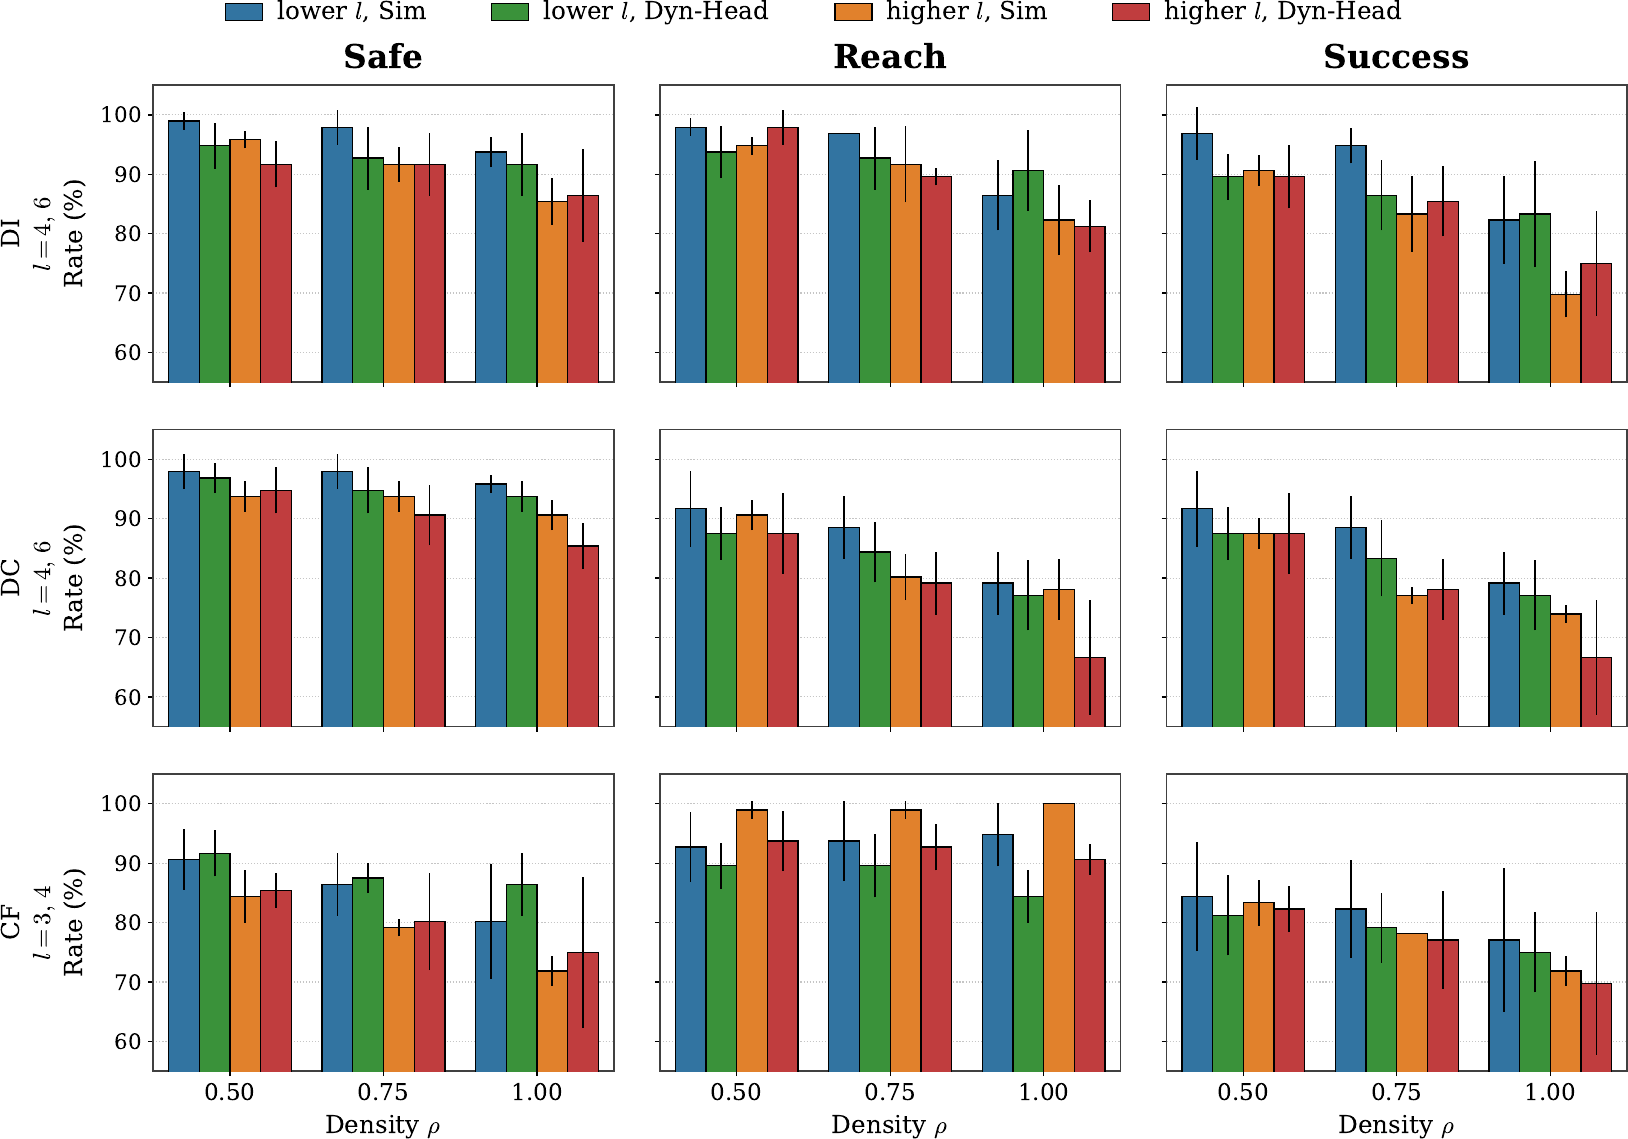
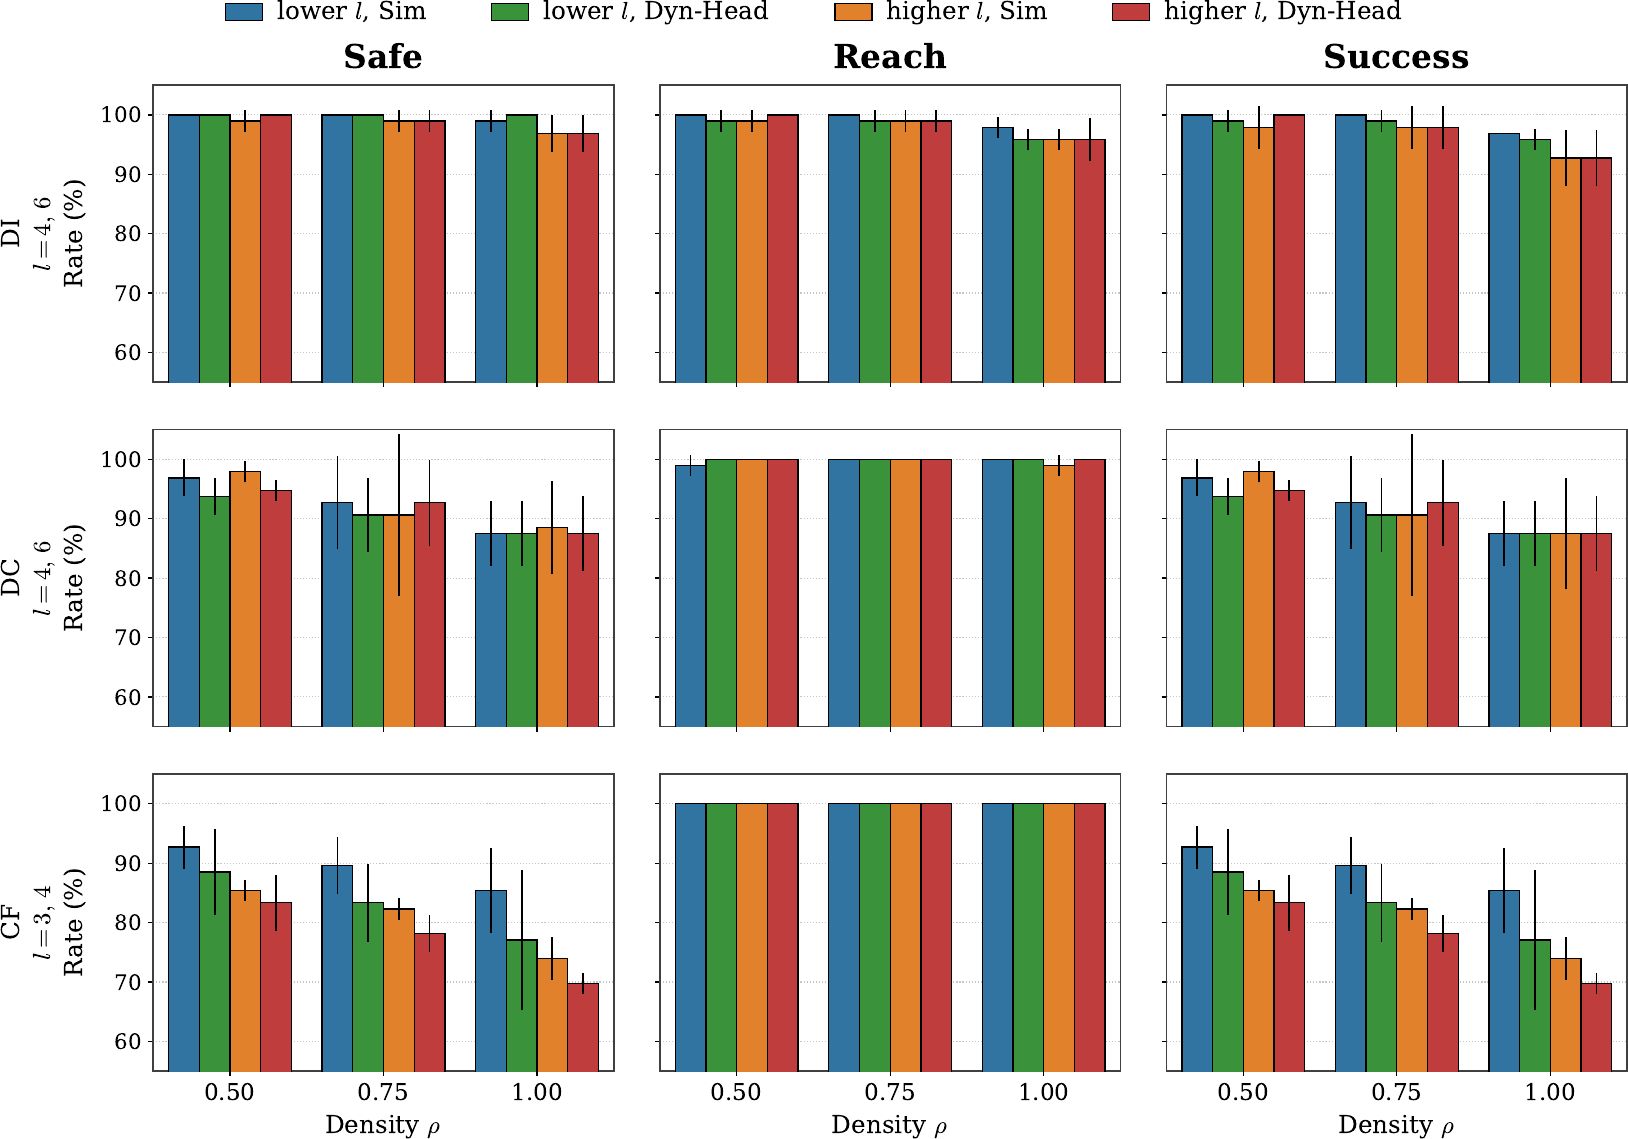
Update all results to match the revised paper
Table 1, the predictive-horizon ablation, the frozen-backbone ablation and
the robustness table all changed in the new PDF; Fig. 2 is re-rendered from
the new generalization runs. Tables 7 and 8 (dynamics-head RMSE) and Fig. 1
are unchanged.

Removes the tabulated generalization results: they were reconstructed from
the preliminary version, the camera-ready reports only Fig. 2, and the new
run CSVs do not carry the Sim/Dyn-Head split needed to rebuild them.

Prose corrected to match: inference speedup is now two to three orders of
magnitude, the horizon ablation improves safety 84.38% to 100.00%, and
process noise is sigma_p = 4*sigma, sigma_v = 0.5*sigma.

diff --git a/index.html b/index.html
@@ -368,7 +368,7 @@
           <br><br>
 
           <b>
-            Performance comparison in terms of safety rate (Safe), goal reaching rate (Reach), success rate (Success) and per-step computational time (Time). <b>Ours (Dyn-Head)</b> generates predictive rollouts with the learned dynamics head, while <b>Ours (Sim)</b> uses the true simulator during training. Among model-free methods, Ours (Dyn-Head) achieves the best balance between safety and goal-reaching with competitive inference time. Among model-based methods, Ours (Sim) matches MPC while reducing per-step inference time by over <b>three orders of magnitude</b>.
+            Performance comparison in terms of safety rate (Safe), goal reaching rate (Reach), success rate (Success) and per-step computational time (Time). <b>Ours (Dyn-Head)</b> generates predictive rollouts with the learned dynamics head, while <b>Ours (Sim)</b> uses the true simulator during training. Among model-free methods, Ours (Dyn-Head) achieves the best balance between safety and goal-reaching with competitive inference time. Among model-based methods, Ours (Sim) matches or exceeds MPC's safety rate across all environments while reducing per-step computation time by <b>two to three orders of magnitude</b>.
           </b>
 
           <div class="table-scroll">
@@ -389,83 +389,59 @@
                 <th>Ours (Sim)</th>
               </tr>
             </thead>
-            <tbody>
+                        <tbody>
               <tr>
                 <td rowspan="4"><b>DI</b></td>
                 <td>Safe</td>
-                <td>67.71 &plusmn; 2.95</td><td>76.04 &plusmn; 3.90</td><td>72.9 &plusmn; 8.20</td>
-                <td><b>95.83 &plusmn; 1.47</b></td>
-                <td><b>98.96 &plusmn; 1.47</b></td><td><b>98.96 &plusmn; 1.47</b></td>
+                <td>67.71 &plusmn; 2.95</td><td>76.04 &plusmn; 3.90</td><td>72.9 &plusmn; 8.20</td><td><b>100.00 &plusmn; 0.00</b></td><td>98.96 &plusmn; 1.47</td><td><b>100.00 &plusmn; 0.00</b></td>
               </tr>
               <tr>
                 <td>Reach</td>
-                <td>67.71 &plusmn; 2.95</td><td>26.04 &plusmn; 7.80</td><td><b>94.8 &plusmn; 1.50</b></td>
-                <td>89.58 &plusmn; 6.42</td>
-                <td><b>96.88 &plusmn; 2.55</b></td><td>87.50 &plusmn; 4.42</td>
+                <td>67.71 &plusmn; 2.95</td><td>26.04 &plusmn; 7.80</td><td>94.8 &plusmn; 1.50</td><td><b>97.92 &plusmn; 3.61</b></td><td>96.86 &plusmn; 2.55</td><td><b>97.92 &plusmn; 3.61</b></td>
               </tr>
               <tr>
                 <td>Success</td>
-                <td>67.71 &plusmn; 2.95</td><td>21.88 &plusmn; 5.10</td><td>68.8 &plusmn; 6.80</td>
-                <td><b>88.54 &plusmn; 6.42</b></td>
-                <td><b>95.83 &plusmn; 1.47</b></td><td>86.46 &plusmn; 3.90</td>
+                <td>67.71 &plusmn; 2.95</td><td>21.88 &plusmn; 5.10</td><td>68.8 &plusmn; 6.80</td><td><b>97.92 &plusmn; 3.61</b></td><td>95.83 &plusmn; 1.47</td><td><b>97.92 &plusmn; 3.61</b></td>
               </tr>
               <tr>
                 <td>Time (&mu;s)</td>
-                <td>9.24 &plusmn; 0.36</td><td>&ndash;<sup>&dagger;</sup></td><td>6.63 &plusmn; 0.04</td>
-                <td><b>4.99 &plusmn; 0.02</b></td>
-                <td>8256 &plusmn; 900</td><td><b>4.96 &plusmn; 0.03</b></td>
+                <td>9.24 &plusmn; 0.36</td><td>&ndash;<sup>&dagger;</sup></td><td>6.63 &plusmn; 0.04</td><td><b>4.99 &plusmn; 0.02</b></td><td>8256 &plusmn; 900</td><td><b>4.96 &plusmn; 0.03</b></td>
               </tr>
 
               <tr>
                 <td rowspan="4"><b>DC</b></td>
                 <td>Safe</td>
-                <td>56.25 &plusmn; 5.10</td><td>70.83 &plusmn; 3.90</td><td>64.6 &plusmn; 13.10</td>
-                <td><b>95.83 &plusmn; 2.95</b></td>
-                <td><b>97.92 &plusmn; 1.47</b></td><td><b>97.92 &plusmn; 1.47</b></td>
+                <td>56.25 &plusmn; 5.10</td><td>70.83 &plusmn; 3.90</td><td>64.6 &plusmn; 13.10</td><td><b>97.92 &plusmn; 1.80</b></td><td><b>97.92 &plusmn; 1.47</b></td><td><b>97.92 &plusmn; 1.80</b></td>
               </tr>
               <tr>
                 <td>Reach</td>
-                <td>52.08 &plusmn; 3.90</td><td>2.08 &plusmn; 2.95</td><td>27.1 &plusmn; 3.90</td>
-                <td><b>92.71 &plusmn; 2.95</b></td>
-                <td><b>95.83 &plusmn; 1.47</b></td><td>93.75 &plusmn; 1.42</td>
+                <td>52.08 &plusmn; 3.90</td><td>2.08 &plusmn; 2.95</td><td>27.1 &plusmn; 3.90</td><td><b>95.83 &plusmn; 1.80</b></td><td><b>95.83 &plusmn; 1.47</b></td><td>94.79 &plusmn; 3.61</td>
               </tr>
               <tr>
                 <td>Success</td>
-                <td>52.08 &plusmn; 3.90</td><td>2.08 &plusmn; 2.95</td><td>21.9 &plusmn; 2.60</td>
-                <td><b>92.71 &plusmn; 2.95</b></td>
-                <td><b>94.79 &plusmn; 1.47</b></td><td>93.75 &plusmn; 4.42</td>
+                <td>52.08 &plusmn; 3.90</td><td>2.08 &plusmn; 2.95</td><td>21.9 &plusmn; 2.60</td><td><b>93.75 &plusmn; 0.00</b></td><td><b>94.79 &plusmn; 1.47</b></td><td>94.79 &plusmn; 3.61</td>
               </tr>
               <tr>
                 <td>Time (&mu;s)</td>
-                <td>9.90 &plusmn; 0.21</td><td>&ndash;<sup>&dagger;</sup></td><td>6.70 &plusmn; 0.02</td>
-                <td><b>4.79 &plusmn; 0.01</b></td>
-                <td>9280 &plusmn; 1262</td><td><b>4.82 &plusmn; 0.04</b></td>
+                <td>9.90 &plusmn; 0.21</td><td>&ndash;<sup>&dagger;</sup></td><td>6.70 &plusmn; 0.02</td><td><b>4.79 &plusmn; 0.01</b></td><td>9280 &plusmn; 1262</td><td><b>4.82 &plusmn; 0.04</b></td>
               </tr>
 
               <tr>
                 <td rowspan="4"><b>CF</b></td>
                 <td>Safe</td>
-                <td>88.54 &plusmn; 2.95</td><td><b>98.96 &plusmn; 1.80</b></td><td>91.7 &plusmn; 5.90</td>
-                <td>96.88 &plusmn; 2.55</td>
-                <td><b>93.75 &plusmn; 0.00</b></td><td><b>93.75 &plusmn; 2.55</b></td>
+                <td>88.54 &plusmn; 2.95</td><td><b>98.96 &plusmn; 1.80</b></td><td>91.7 &plusmn; 5.90</td><td>94.79 &plusmn; 3.61</td><td>93.75 &plusmn; 0.00</td><td><b>95.83 &plusmn; 4.77</b></td>
               </tr>
               <tr>
                 <td>Reach</td>
-                <td>85.42 &plusmn; 3.90</td><td>0.00 &plusmn; 0.00</td><td><b>96.9 &plusmn; 2.60</b></td>
-                <td>92.71 &plusmn; 3.90</td>
-                <td><b>100.00 &plusmn; 0.00</b></td><td>94.79 &plusmn; 5.31</td>
+                <td>85.42 &plusmn; 3.90</td><td>0.00 &plusmn; 0.00</td><td><b>96.9 &plusmn; 2.60</b></td><td>94.79 &plusmn; 6.51</td><td><b>100.00 &plusmn; 0.00</b></td><td>93.75 &plusmn; 6.25</td>
               </tr>
               <tr>
                 <td>Success</td>
-                <td>85.42 &plusmn; 3.90</td><td>0.00 &plusmn; 0.00</td><td>88.5 &plusmn; 3.90</td>
-                <td><b>89.58 &plusmn; 8.20</b></td>
-                <td><b>93.75 &plusmn; 0.00</b></td><td>88.54 &plusmn; 7.37</td>
+                <td>85.42 &plusmn; 3.90</td><td>0.00 &plusmn; 0.00</td><td>88.5 &plusmn; 3.90</td><td><b>89.58 &plusmn; 10.05</b></td><td>93.75 &plusmn; 0.00</td><td><b>89.58 &plusmn; 10.05</b></td>
               </tr>
               <tr>
                 <td>Time (&mu;s)</td>
-                <td>9.51 &plusmn; 0.38</td><td>&ndash;<sup>&dagger;</sup></td><td>8.63 &plusmn; 0.03</td>
-                <td><b>5.12 &plusmn; 0.04</b></td>
-                <td>2773 &plusmn; 103</td><td><b>5.08 &plusmn; 0.03</b></td>
+                <td>9.51 &plusmn; 0.38</td><td>&ndash;<sup>&dagger;</sup></td><td>8.63 &plusmn; 0.03</td><td><b>5.12 &plusmn; 0.04</b></td><td>2773 &plusmn; 103</td><td><b>5.08 &plusmn; 0.03</b></td>
               </tr>
             </tbody>
           </table>
@@ -486,96 +462,6 @@
             <img width=100% src="./figs/generalization.png">
           </center>
 
-          <br>
-
-          <b>
-            The same evaluation in numbers, at the training workspace size.
-          </b>
-          The table below tabulates the smaller-workspace bars of Fig.&nbsp;2 ($l = 4$ for DI and DC, $l = 3$ for CF) across the three densities, for both the Sim and Dyn-Head variants.
-
-          <div class="table-scroll">
-          <table class="table is-bordered is-striped is-narrow is-hoverable results-table">
-            <thead>
-              <tr>
-                <th rowspan="2">Env.</th>
-                <th rowspan="2">$\rho$</th>
-                <th rowspan="2">$M$</th>
-                <th colspan="2">Safe</th>
-                <th colspan="2">Reach</th>
-                <th colspan="2">Success</th>
-              </tr>
-              <tr>
-                <th>Sim</th><th>Dyn-Head</th>
-                <th>Sim</th><th>Dyn-Head</th>
-                <th>Sim</th><th>Dyn-Head</th>
-              </tr>
-            </thead>
-            <tbody>
-              <tr>
-                <td rowspan="3"><b>DI</b></td>
-                <td>0.50</td><td>8</td>
-                <td>98.96 &plusmn; 1.47</td><td>94.79 &plusmn; 3.90</td>
-                <td>96.88 &plusmn; 2.55</td><td>93.75 &plusmn; 4.42</td>
-                <td>95.83 &plusmn; 2.95</td><td>89.58 &plusmn; 3.90</td>
-              </tr>
-              <tr>
-                <td>0.75</td><td>12</td>
-                <td>97.92 &plusmn; 2.95</td><td>92.71 &plusmn; 5.31</td>
-                <td>95.83 &plusmn; 3.90</td><td>92.71 &plusmn; 5.31</td>
-                <td>93.75 &plusmn; 4.42</td><td>86.46 &plusmn; 5.89</td>
-              </tr>
-              <tr>
-                <td>1.00</td><td>16</td>
-                <td>94.79 &plusmn; 3.90</td><td>91.67 &plusmn; 5.31</td>
-                <td>93.75 &plusmn; 4.42</td><td>90.62 &plusmn; 6.75</td>
-                <td>88.54 &plusmn; 5.31</td><td>83.33 &plusmn; 8.96</td>
-              </tr>
-
-              <tr>
-                <td rowspan="3"><b>DC</b></td>
-                <td>0.50</td><td>8</td>
-                <td>97.92 &plusmn; 2.95</td><td>96.88 &plusmn; 2.55</td>
-                <td>91.67 &plusmn; 6.42</td><td>87.50 &plusmn; 4.42</td>
-                <td>91.67 &plusmn; 6.42</td><td>87.50 &plusmn; 4.42</td>
-              </tr>
-              <tr>
-                <td>0.75</td><td>12</td>
-                <td>97.92 &plusmn; 2.95</td><td>94.79 &plusmn; 3.90</td>
-                <td>88.54 &plusmn; 5.31</td><td>84.38 &plusmn; 5.10</td>
-                <td>88.54 &plusmn; 5.31</td><td>83.33 &plusmn; 6.42</td>
-              </tr>
-              <tr>
-                <td>1.00</td><td>16</td>
-                <td>95.83 &plusmn; 1.47</td><td>93.75 &plusmn; 2.55</td>
-                <td>79.67 &plusmn; 5.31</td><td>77.08 &plusmn; 5.89</td>
-                <td>79.17 &plusmn; 5.31</td><td>77.08 &plusmn; 5.89</td>
-              </tr>
-
-              <tr>
-                <td rowspan="3"><b>CF</b></td>
-                <td>0.50</td><td>13</td>
-                <td>90.62 &plusmn; 5.10</td><td>91.67 &plusmn; 3.90</td>
-                <td>92.71 &plusmn; 5.89</td><td>89.58 &plusmn; 3.90</td>
-                <td>84.38 &plusmn; 9.20</td><td>81.25 &plusmn; 6.75</td>
-              </tr>
-              <tr>
-                <td>0.75</td><td>20</td>
-                <td>86.46 &plusmn; 5.31</td><td>87.50 &plusmn; 2.55</td>
-                <td>93.75 &plusmn; 6.75</td><td>89.58 &plusmn; 5.31</td>
-                <td>82.29 &plusmn; 8.20</td><td>79.17 &plusmn; 5.89</td>
-              </tr>
-              <tr>
-                <td>1.00</td><td>27</td>
-                <td>80.21 &plusmn; 9.66</td><td>86.46 &plusmn; 5.31</td>
-                <td>94.79 &plusmn; 5.31</td><td>84.38 &plusmn; 4.42</td>
-                <td>77.08 &plusmn; 12.06</td><td>75.00 &plusmn; 6.75</td>
-              </tr>
-            </tbody>
-          </table>
-          </div>
-          <p class="table-caption has-text-centered">
-            Mean &plusmn; std over 32 environments and 3 seeds, 1024 timesteps.
-          </p>
         </div>
       </div>
     </div>
@@ -738,7 +624,7 @@
           <b>
             Effect of the predictive horizon $H$ on Double Integrator, with history length fixed at $T = 12$.
           </b>
-          The $H = 1$ setting corresponds to pointwise barrier supervision without multi-step predictive rollout, and gives the lowest safety rate. Increasing the horizon from $H = 1$ to $H = 6$ improves safety from $83.33\%$ to $95.83\%$, demonstrating the benefit of enforcing barrier constraints over predicted rollouts rather than only at the next step. Increasing $H$ further does not consistently help when the history length is fixed, because longer rollouts accumulate dynamics-head prediction error and introduce more linearized barrier constraints in the SQP subproblem. We therefore use $H = 6$ with $T = 12$ in the main experiments.
+          The $H = 1$ setting corresponds to pointwise barrier supervision without multi-step predictive rollout, and gives the lowest safety rate. Increasing the horizon from $H = 1$ to $H = 6$ improves safety from $84.38\%$ to $100.00\%$, demonstrating the benefit of enforcing barrier constraints over predicted rollouts rather than only at the next step. Increasing $H$ further does not consistently help when the history length is fixed, because longer rollouts accumulate dynamics-head prediction error and introduce more linearized barrier constraints in the SQP subproblem. We therefore use $H = 6$ with $T = 12$ in the main experiments.
 
           <div class="table-scroll">
           <table class="table is-bordered is-striped is-narrow is-hoverable results-table">
@@ -751,15 +637,15 @@
                 <th>Success</th>
               </tr>
             </thead>
-            <tbody>
+                        <tbody>
               <tr>
                 <td rowspan="5">Ours (Dyn-Head)</td>
-                <td>1</td><td>83.33 &plusmn; 4.78</td><td>90.63 &plusmn; 6.25</td><td>78.12 &plusmn; 5.42</td>
+                <td>1</td><td>84.38 &plusmn; 3.12</td><td>86.46 &plusmn; 7.22</td><td>76.04 &plusmn; 7.86</td>
               </tr>
-              <tr><td>3</td><td>88.54 &plusmn; 5.89</td><td>97.92 &plusmn; 1.47</td><td>87.50 &plusmn; 6.75</td></tr>
-              <tr><td><b>6</b></td><td><b>95.83 &plusmn; 1.47</b></td><td>89.58 &plusmn; 6.42</td><td>88.54 &plusmn; 6.42</td></tr>
-              <tr><td>9</td><td>89.58 &plusmn; 5.31</td><td>97.92 &plusmn; 1.47</td><td>87.50 &plusmn; 6.75</td></tr>
-              <tr><td>12</td><td>89.58 &plusmn; 3.90</td><td>100.00 &plusmn; 0.00</td><td>89.58 &plusmn; 3.90</td></tr>
+              <tr><td>3</td><td>91.67 &plusmn; 1.80</td><td>91.67 &plusmn; 3.61</td><td>78.12 &plusmn; 11.27</td></tr>
+              <tr><td><b>6</b></td><td><b>100.00 &plusmn; 0.00</b></td><td><b>97.92 &plusmn; 3.61</b></td><td><b>97.92 &plusmn; 3.61</b></td></tr>
+              <tr><td>9</td><td>100.00 &plusmn; 0.00</td><td>94.79 &plusmn; 3.61</td><td>94.79 &plusmn; 3.61</td></tr>
+              <tr><td>12</td><td>100.00 &plusmn; 0.00</td><td>96.88 &plusmn; 3.12</td><td>96.88 &plusmn; 3.12</td></tr>
             </tbody>
           </table>
           </div>
@@ -791,24 +677,18 @@
                 <th>Frozen</th><th>Ours</th>
               </tr>
             </thead>
-            <tbody>
+                        <tbody>
               <tr>
                 <td><b>DI</b></td>
-                <td>79.17 &plusmn; 8.20</td><td><b>95.83 &plusmn; 1.47</b></td>
-                <td><b>96.88 &plusmn; 2.55</b></td><td>89.58 &plusmn; 6.42</td>
-                <td>77.08 &plusmn; 9.66</td><td><b>88.54 &plusmn; 6.42</b></td>
+                <td>90.62 &plusmn; 5.41</td><td><b>100.00 &plusmn; 0.00</b></td><td>91.67 &plusmn; 4.77</td><td><b>97.92 &plusmn; 3.21</b></td><td>84.38 &plusmn; 8.27</td><td><b>97.92 &plusmn; 3.21</b></td>
               </tr>
               <tr>
                 <td><b>DC</b></td>
-                <td>67.71 &plusmn; 2.25</td><td><b>95.83 &plusmn; 2.95</b></td>
-                <td><b>100.00 &plusmn; 0.00</b></td><td>92.71 &plusmn; 2.95</td>
-                <td>67.71 &plusmn; 2.25</td><td><b>92.71 &plusmn; 2.95</b></td>
+                <td>82.29 &plusmn; 1.80</td><td><b>97.92 &plusmn; 1.80</b></td><td><b>96.88 &plusmn; 3.12</b></td><td>95.83 &plusmn; 1.80</td><td>80.21 &plusmn; 1.80</td><td><b>93.75 &plusmn; 0.00</b></td>
               </tr>
               <tr>
                 <td><b>CF</b></td>
-                <td>93.75 &plusmn; 5.10</td><td><b>96.88 &plusmn; 2.55</b></td>
-                <td>89.58 &plusmn; 3.90</td><td><b>92.71 &plusmn; 3.90</b></td>
-                <td>84.38 &plusmn; 9.20</td><td><b>89.58 &plusmn; 6.42</b></td>
+                <td>93.75 &plusmn; 3.12</td><td><b>94.79 &plusmn; 3.61</b></td><td><b>95.79 &plusmn; 6.51</b></td><td>94.79 &plusmn; 6.51</td><td>88.54 &plusmn; 9.02</td><td><b>89.58 &plusmn; 10.05</b></td>
               </tr>
             </tbody>
           </table>
@@ -886,7 +766,7 @@
           <b>
             Robustness to dynamics perturbations on Double Integrator.
           </b>
-          All policies are trained on the unperturbed dynamics and evaluated without retraining, under a parametric velocity mismatch $\dot{\mathbf{p}} = \alpha_\text{vel}\mathbf{v}$ and state-wise scaled process noise $\dot{\mathbf{x}} = f(\mathbf{x},\mathbf{u}) + \mathbf{w}$, $\mathbf{w} \sim \mathcal{N}(\mathbf{0}, \boldsymbol{\Sigma}_w)$. Under velocity mismatch the safety rate stays high across all tested $\alpha_\text{vel}$; the lower reaching rate at $\alpha_\text{vel} = 0.8$ is expected, since the robot moves more slowly and more often hits the episode time limit before arriving. Additive process noise is more challenging: safety remains above $92\%$ for $\sigma \leq 0.0025$ but drops as the disturbance magnitude increases. These are empirical robustness tests, not formal robust safety guarantees.
+          All policies are trained on the unperturbed dynamics and evaluated without retraining, under a parametric velocity mismatch $\dot{\mathbf{p}} = \alpha_\text{vel}\mathbf{v}$ and state-wise scaled process noise $\dot{\mathbf{x}} = f(\mathbf{x},\mathbf{u}) + \mathbf{w}$, $\mathbf{w} \sim \mathcal{N}(\mathbf{0}, \boldsymbol{\Sigma}_w)$. Under velocity mismatch the safety rate stays high across all tested $\alpha_\text{vel}$; the lower reaching rate at $\alpha_\text{vel} = 0.8$ is expected, since the robot moves more slowly and more often hits the episode time limit before arriving. Additive process noise is more challenging: safety remains at or above $97\%$ for $\sigma \leq 0.0025$ but drops as the disturbance magnitude increases. These are empirical robustness tests, not formal robust safety guarantees.
 
           <div class="table-scroll">
           <table class="table is-bordered is-striped is-narrow is-hoverable results-table">
@@ -900,30 +780,30 @@
                 <th>Safe</th><th>Reach</th><th>Success</th>
               </tr>
             </thead>
-            <tbody>
+                        <tbody>
               <tr>
                 <td rowspan="5">$\dot{\mathbf{p}} = \alpha_\text{vel}\mathbf{v}$</td>
-                <td>0.8</td><td>95.84</td><td>75.00</td><td>73.96</td>
+                <td>0.8</td><td>100.00 &plusmn; 0.00</td><td>80.21 &plusmn; 6.51</td><td>80.21 &plusmn; 6.51</td>
               </tr>
-              <tr><td>0.9</td><td>96.88</td><td>84.37</td><td>84.37</td></tr>
-              <tr><td>1.0</td><td>96.88</td><td>89.58</td><td>88.54</td></tr>
-              <tr><td>1.1</td><td>95.83</td><td>96.88</td><td>93.75</td></tr>
-              <tr><td>1.2</td><td>95.83</td><td>96.88</td><td>92.71</td></tr>
+              <tr><td>0.9</td><td>100.00 &plusmn; 0.00</td><td>92.71 &plusmn; 4.77</td><td>92.71 &plusmn; 4.77</td></tr>
+              <tr><td>1.0</td><td>100.00 &plusmn; 0.00</td><td>97.92 &plusmn; 3.61</td><td>97.92 &plusmn; 3.61</td></tr>
+              <tr><td>1.1</td><td>100.00 &plusmn; 0.00</td><td>100.00 &plusmn; 0.00</td><td>100.00 &plusmn; 0.00</td></tr>
+              <tr><td>1.2</td><td>100.00 &plusmn; 0.00</td><td>100.00 &plusmn; 0.00</td><td>100.00 &plusmn; 0.00</td></tr>
 
               <tr>
                 <td rowspan="6">$\dot{\mathbf{x}} = f(\mathbf{x},\mathbf{u}) + \mathbf{w}$</td>
-                <td>$\sigma = 0$</td><td>96.88</td><td>89.58</td><td>88.54</td>
+                <td>$\sigma = 0$</td><td>100.00 &plusmn; 0.00</td><td>97.92 &plusmn; 3.61</td><td>97.92 &plusmn; 3.61</td>
               </tr>
-              <tr><td>$\sigma = 0.001$</td><td>98.96</td><td>89.58</td><td>89.58</td></tr>
-              <tr><td>$\sigma = 0.0025$</td><td>92.71</td><td>86.46</td><td>83.33</td></tr>
-              <tr><td>$\sigma = 0.005$</td><td>73.96</td><td>82.29</td><td>68.75</td></tr>
-              <tr><td>$\sigma = 0.0075$</td><td>53.12</td><td>79.17</td><td>50.00</td></tr>
-              <tr><td>$\sigma = 0.01$</td><td>42.71</td><td>78.13</td><td>38.54</td></tr>
+              <tr><td>$\sigma = 0.001$</td><td>100.00 &plusmn; 0.00</td><td>96.88 &plusmn; 5.41</td><td>96.88 &plusmn; 5.41</td></tr>
+              <tr><td>$\sigma = 0.0025$</td><td>97.92 &plusmn; 3.61</td><td>96.88 &plusmn; 5.41</td><td>95.83 &plusmn; 7.22</td></tr>
+              <tr><td>$\sigma = 0.005$</td><td>90.62 &plusmn; 8.27</td><td>93.75 &plusmn; 10.83</td><td>86.46 &plusmn; 15.42</td></tr>
+              <tr><td>$\sigma = 0.0075$</td><td>75.00 &plusmn; 6.25</td><td>89.58 &plusmn; 10.97</td><td>69.79 &plusmn; 14.77</td></tr>
+              <tr><td>$\sigma = 0.01$</td><td>54.17 &plusmn; 9.02</td><td>86.46 &plusmn; 13.01</td><td>51.04 &plusmn; 14.43</td></tr>
             </tbody>
           </table>
           </div>
           <p class="table-caption has-text-centered">
-            Rates reported as percentages over 3 seeds with 32 environments per seed. For process noise, $\sigma_p = \sigma_v = \sigma$.
+            Mean &plusmn; standard deviation over 3 seeds with 32 environments per seed. For process noise, $\sigma_p = 4\sigma$ and $\sigma_v = 0.5\sigma$.
           </p>
         </div>
       </div>
